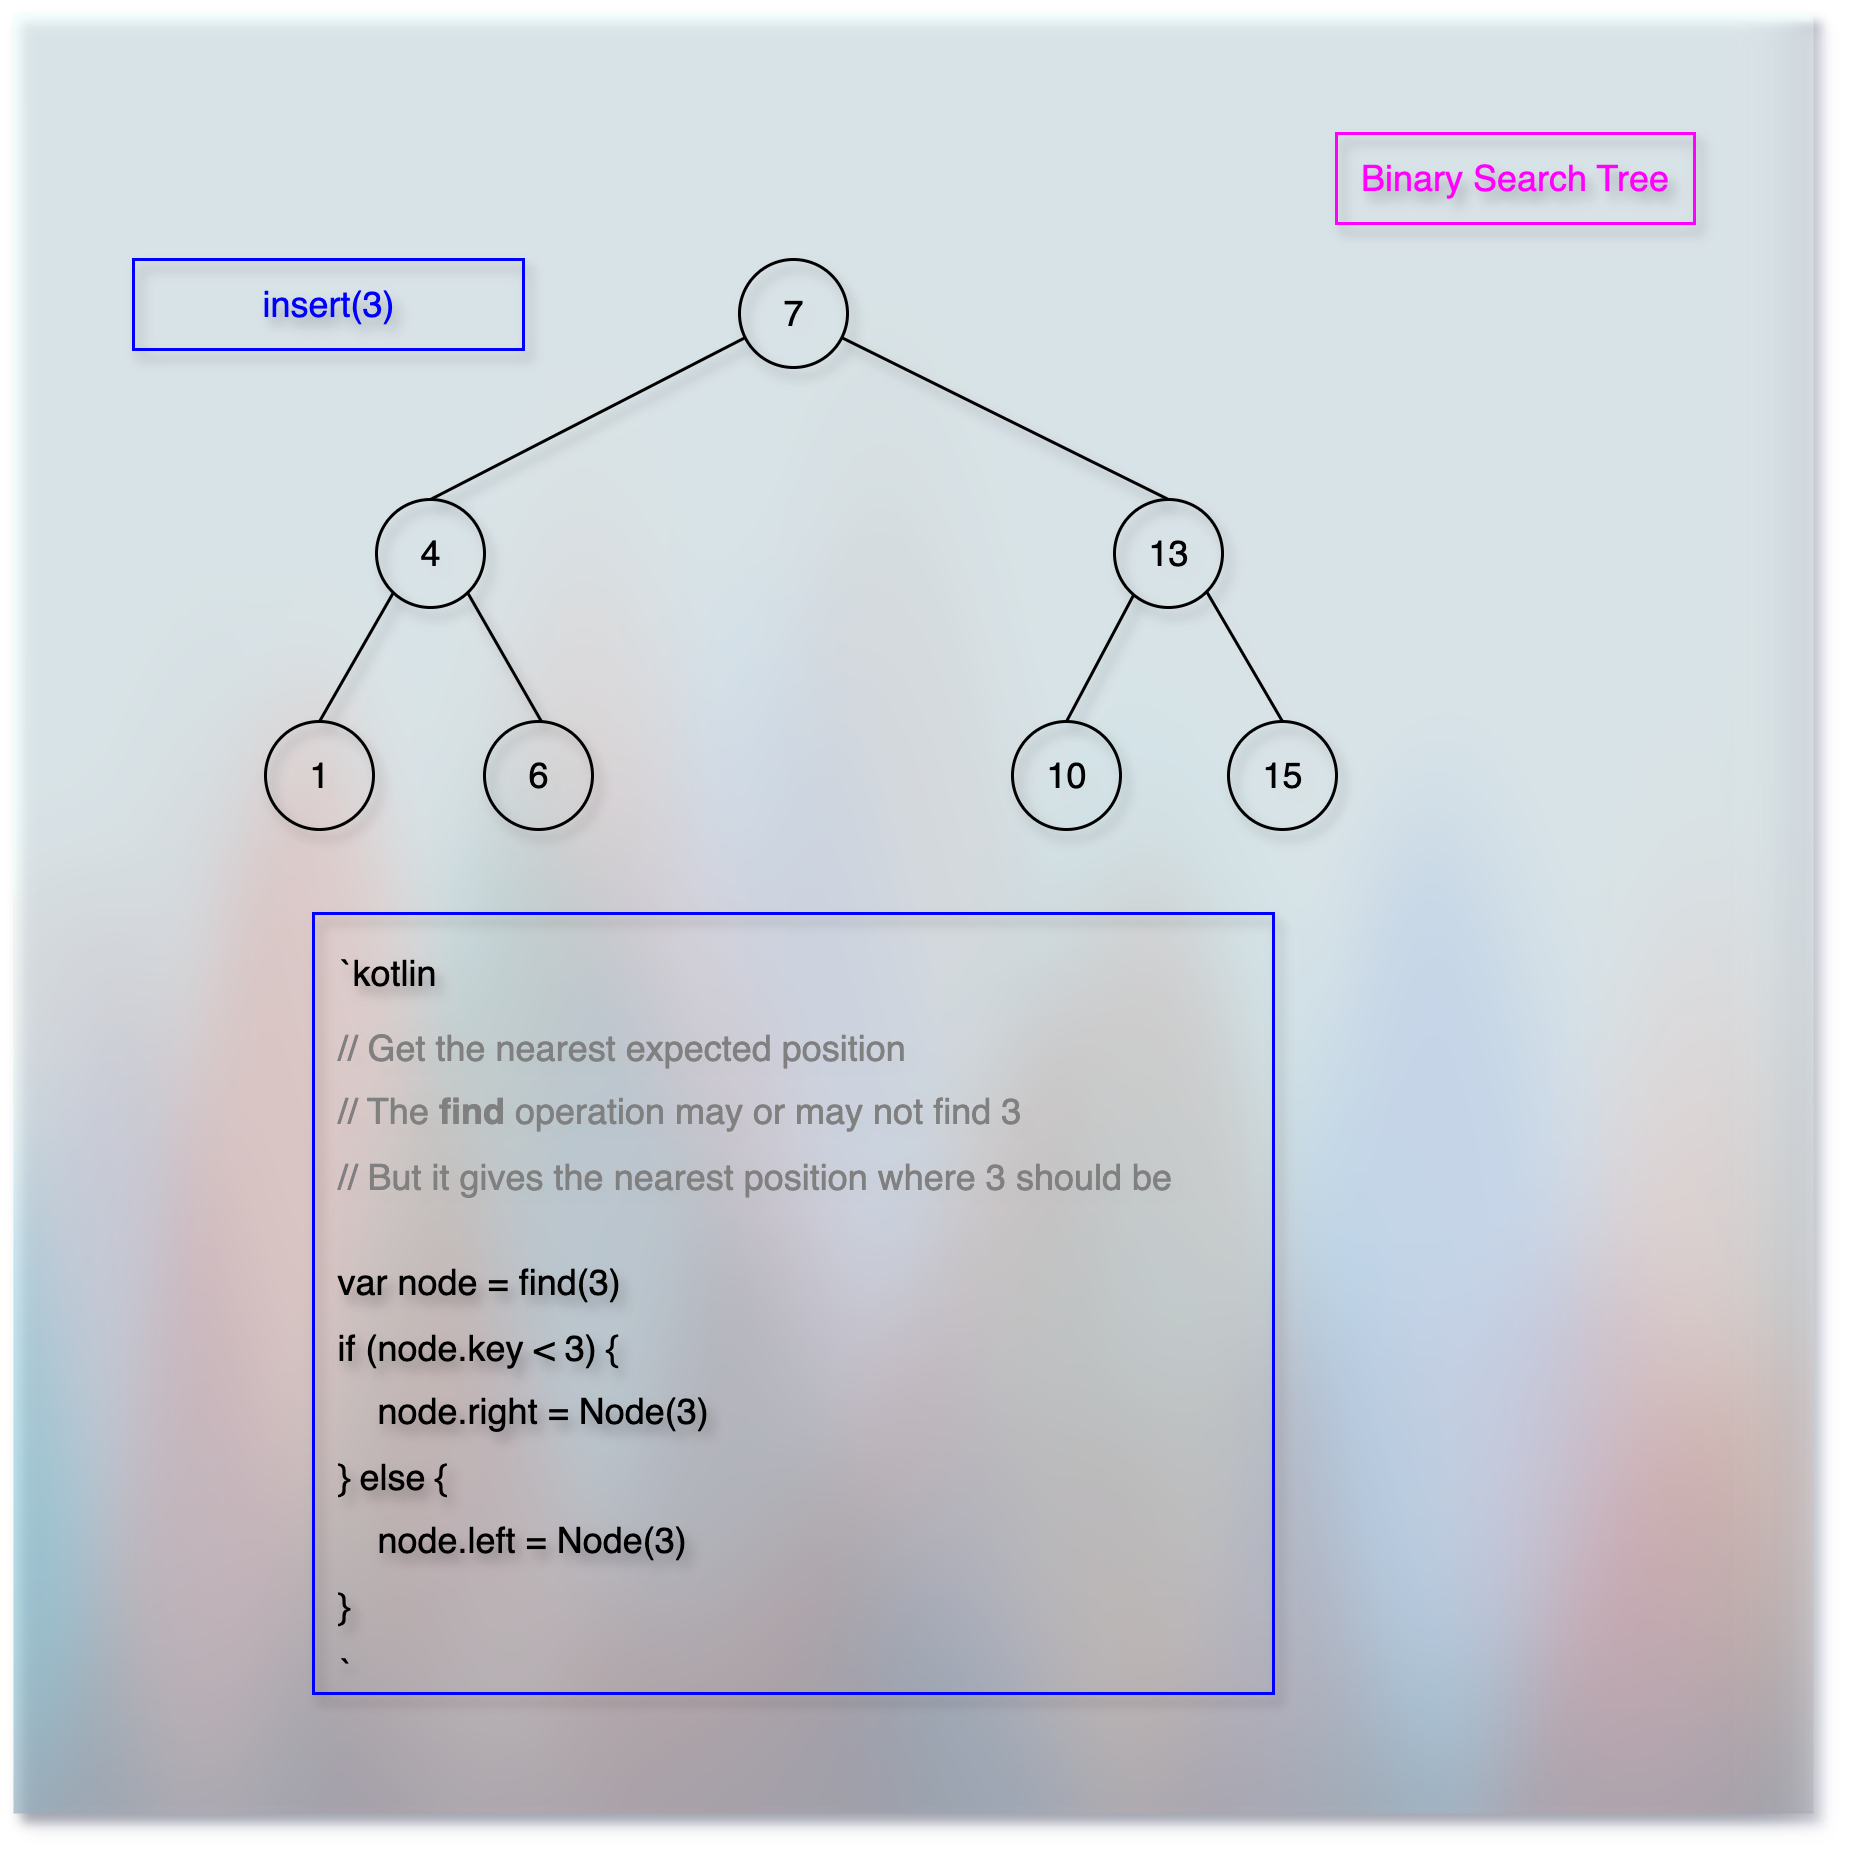
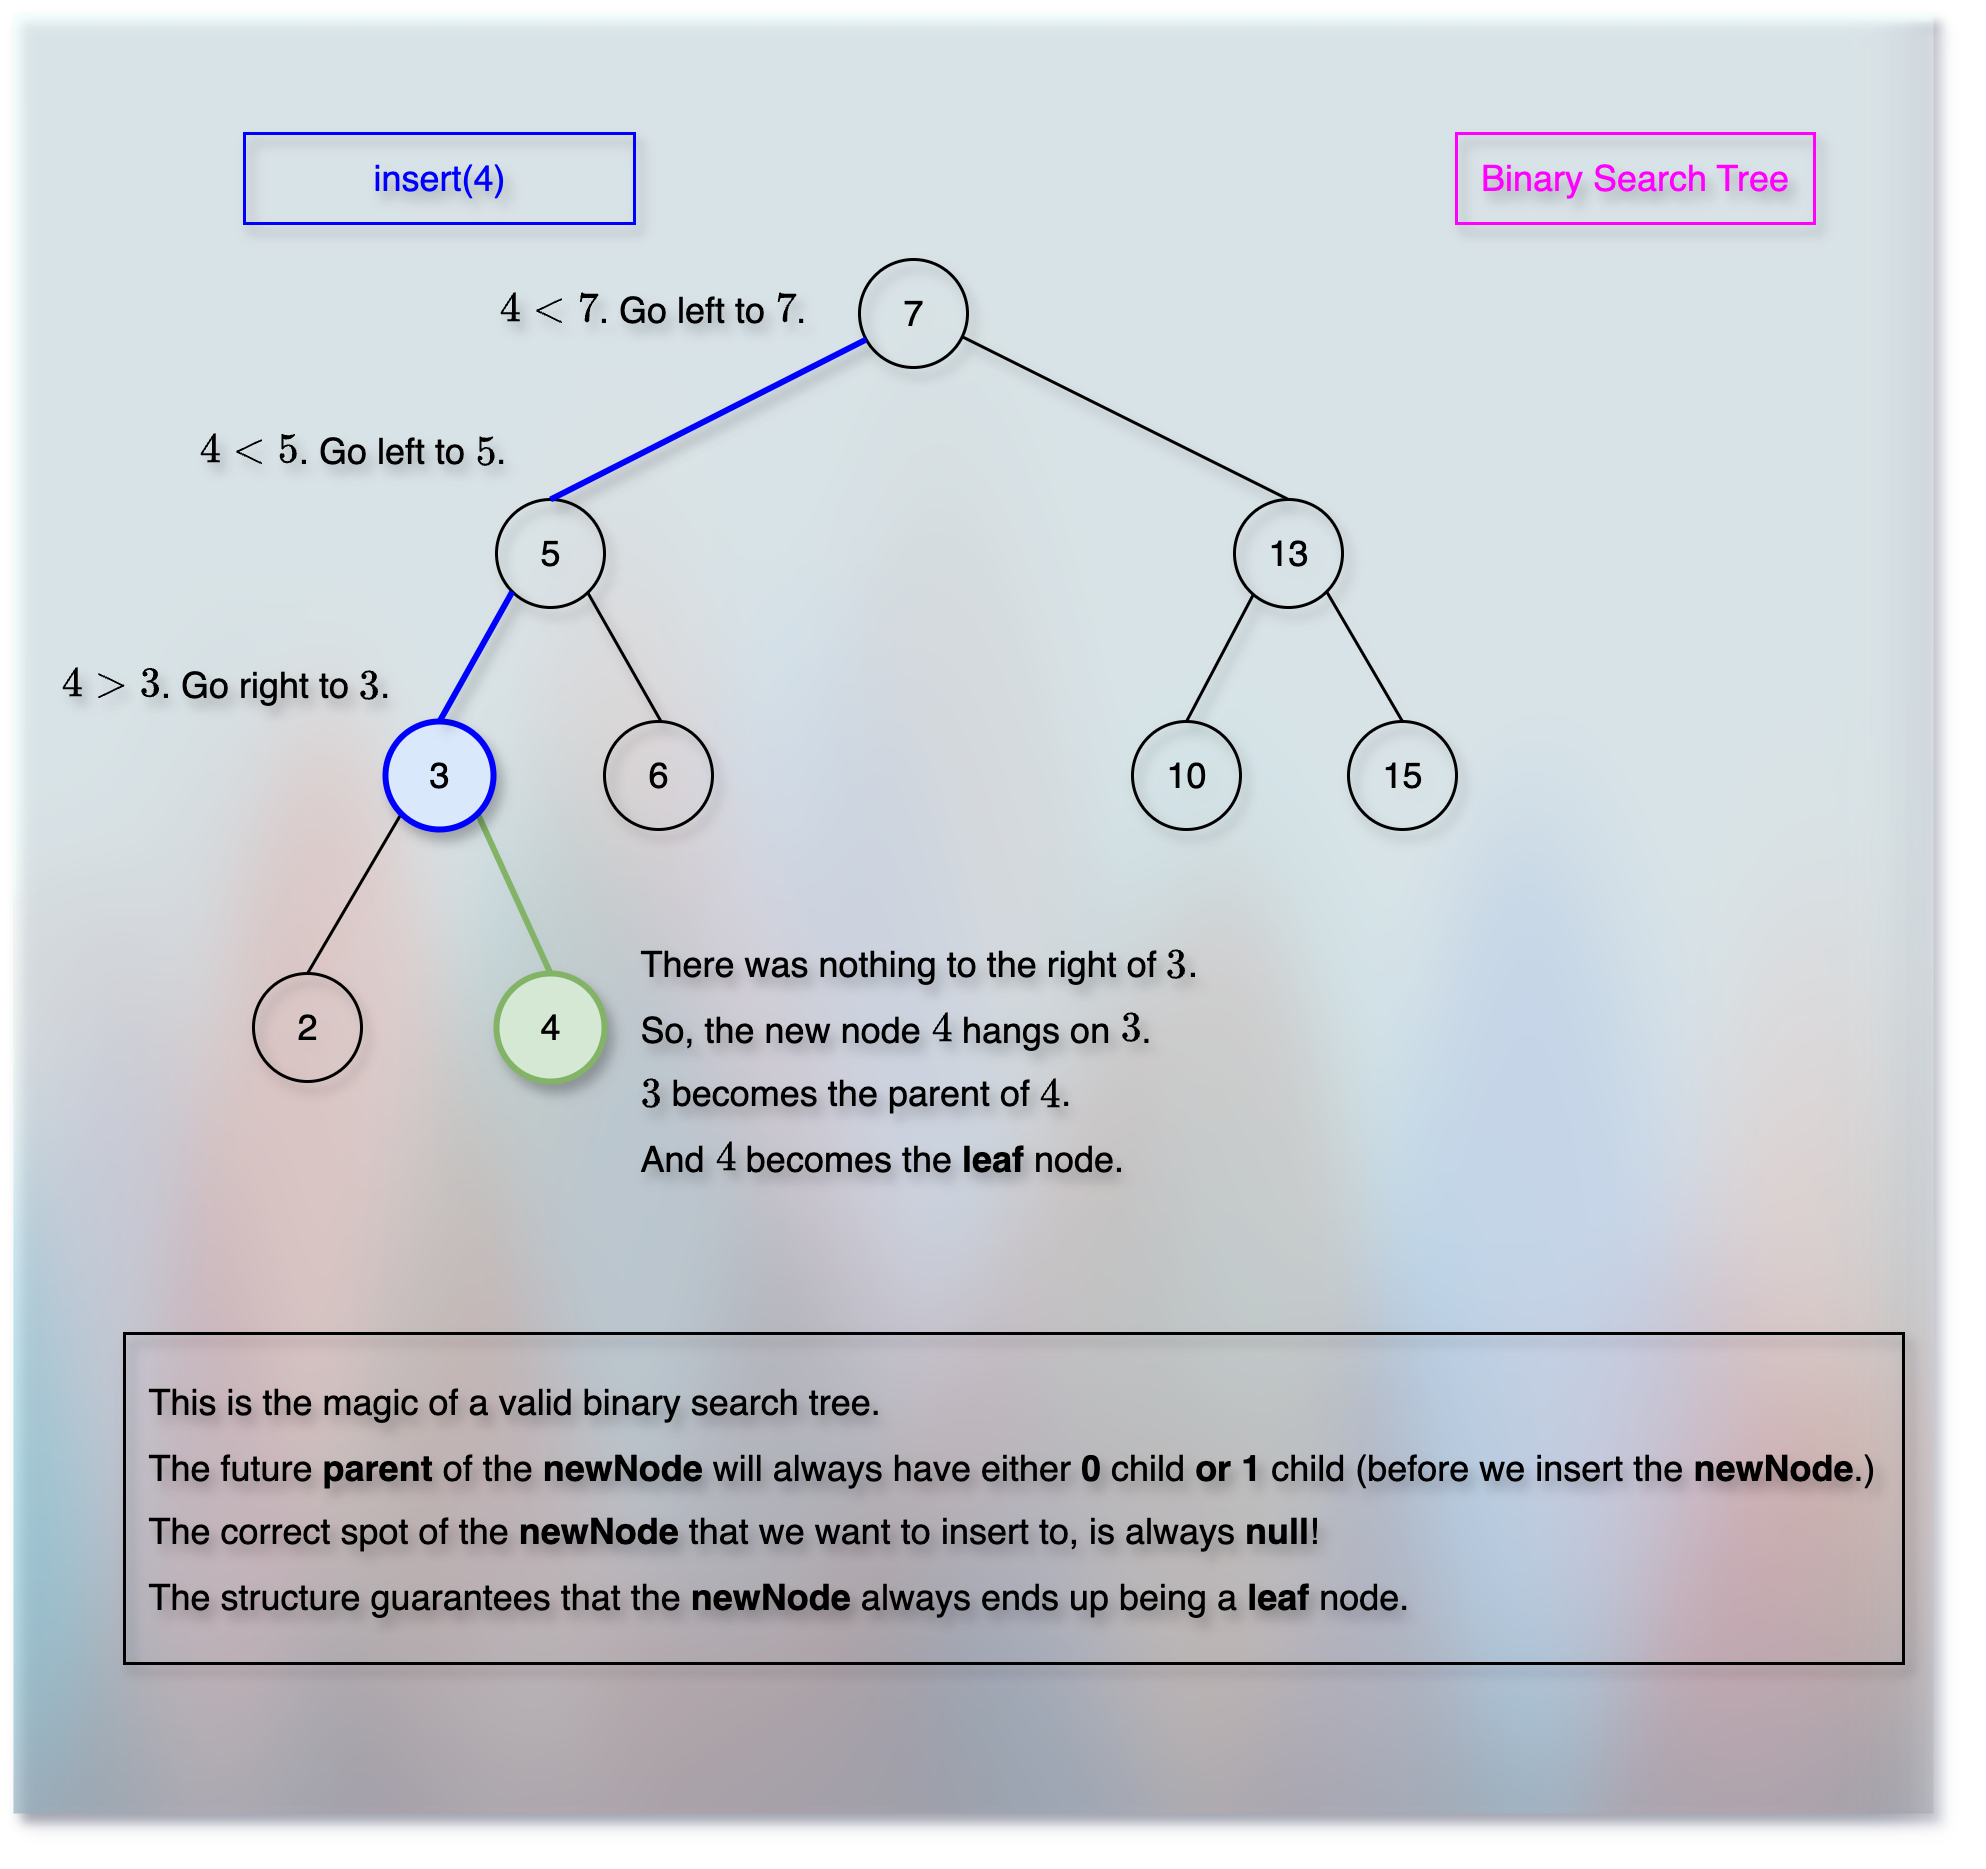
docs(WIP): add detailed BST insert operation implementation with code examples | Improve (correct) the relevant visual (image) | 10binarySearchTreesBSTsBasicOperations.md | A part of the data structures. Reference: Coursera: UC San Diego:  Data Structures: Module 05: Binary Search Trees
Took 1 hour 9 minutes

diff --git a/docs/dataStructures/courses/uc/module05binarySearchTrees/10binarySearchTreesBSTsBasicOperations.md b/docs/dataStructures/courses/uc/module05binarySearchTrees/10binarySearchTreesBSTsBasicOperations.md
@@ -183,25 +183,99 @@ fun rangeSearch(xLeftLimit: Node, yRightLimit: Node) {
 
 ![70bstInsert.png](../../../../../assets/images/dataStructures/uc/module05binarySearchTreesBST/70bstInsert.png)
 
-* Reference: [Find Operation](#find-search)
-* Suppose, we want to insert a node with key `3`.
-* The [Find](#find-search) operation may or may not find a node with key `3`.
-* But it gives us the nearest position where the node with key `3` should fit.
+* Suppose, we want to insert a node with key `4`.
+* We want to insert a new node.
+* So, we need to create a new node.
+
+**Code Translation**
+
+```kotlin
+val newNode = Node(key = 4)
+```
+
+**Initial base conditions**
+
+* If the `rootNode` is `null`, the `newNode` becomes the `rootNode` and we are done.
+
+**Code Translation**
 
 ```kotlin
 
-fun insert(key: Int, rootNode: Node?): Node {
+if (rootNode == null) {
+    rootNode = newNode
+    return
+}
+```
+
+**What if the `rootNode` is not `null`?**
+
+* In that case, we need to find the correct `parent` under which the `newNode` should fit.
+
+**What happens to the existing `child` of the `parent` under which the `newNode` would fit?**
+
+* This is the magic of the binary search tree!
+* The correct spot (position, location) will always be `null` for the `newNode` in a valid binary search tree.
+* The `newNode` that we insert always ends up being a `leaf` node.
+
+**How do we insert the `newNode`?**
+
+* We follow the [find](#find-search) approach to travel the tree.
+* When the `currentNode` becomes `null` (when we exit the `while` loop), we fit the `newNode` right there.
+* But we cannot fit (float!) the `newNode` in the air! 
+* We need a `parentNode` under which we can attach the `newNode`.
+* And the `parentNode` is the node right before the `currentNode` became `null`. 
+* It means that we need to keep track of the `parentNode` as well along with the `currentNode`.
+* Because `currentNode` tells the spot where we fit the `newNode` and the `parentNode` holds the `newNode`.
+* Now, as we can see in the [find](#find-search), inside the `while` loop, the `currentNode` is not `null`.
+* So, we can assign the `parentNode` inside the `while` loop.
+
+**Code Translation**
+
+```kotlin
+val newNode = Node(key = 4)
+var currentNode = rootNode
+var parentNode = currentNode
+while (currentNode != null) {
+    parentNode = currentNode
+    when {
+        newNode.key == currentNode.key -> return
+        newNode.key > currentNode.key -> currentNode = currentNode.right
+        newNode.key < currentNode.key -> currentNode = currentNode.left
+    }
+}
+newNode.parent = parentNode
+if (newNode.key > parentNode.key) {
+    parentNode.right = newNode
+} else {
+    parentNode.left = newNode
+}
+```
+
+* So, the full pseudocode is as below:
+
+```kotlin
+
+fun insert(key: Int, rootNode: Node?) {
     val newNode = Node(key)
     if (rootNode == null) {
         return newNode
     }
-    val node = find(key, rootNode)
-    if (node.key < key) {
-        node.right = newNode
-    } else {
-        node.left = newNode
+    var currentNode = rootNode
+    var parentNode = currentNode
+    while (currentNode != null) {
+        parentNode = currentNode
+        when {
+            key == currentNode.key -> return
+            key < currentNode.key -> currentNode = currentNode.left
+            key > currentNode.key -> currentNode = currentNode.right
+        }
     }
-    return newNode
+    newNode.parent = parentNode
+    if (key < parentNode.key) {
+        parentNode.left = newNode
+    } else {
+        parentNode.right = newNode
+    }
 }
 ```
 
